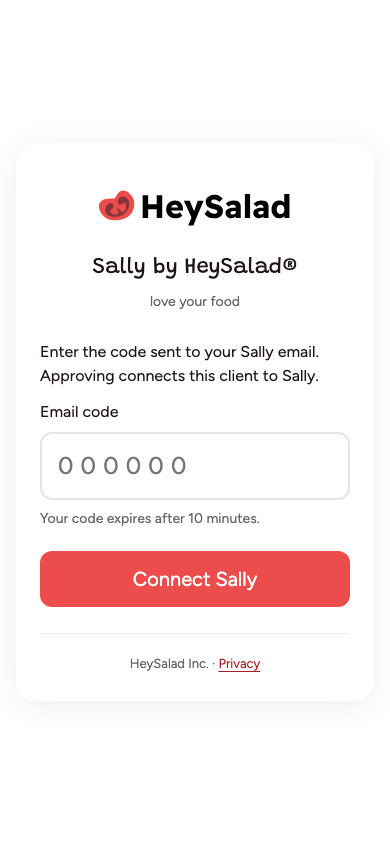
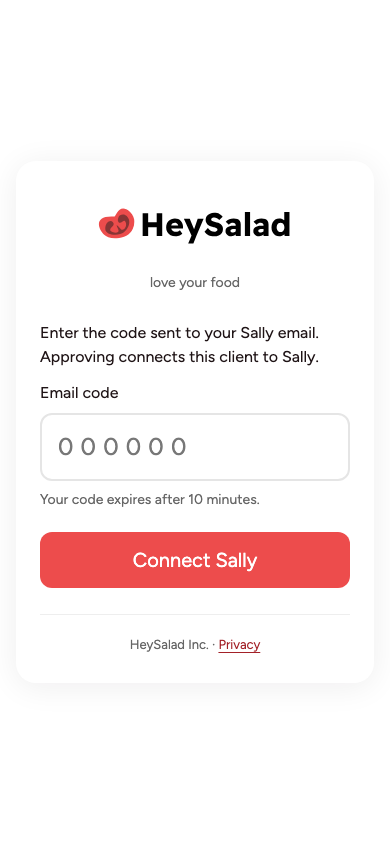
Remove duplicate Sally heading from sign-in card

Changed region(s): [[0.0923, 0.2156, 0.9231, 0.8009], [0.8923, 0.5545, 0.9231, 0.5853], [0.8923, 0.4929, 0.9231, 0.5237]]

diff --git a/src/auth.ts b/src/auth.ts
@@ -22,7 +22,7 @@ const html = (
     `default-src 'none'; style-src 'unsafe-inline'; font-src data:; form-action 'self'${redirectUri ? " " + new URL(redirectUri).origin : ""}; frame-ancestors 'none'; base-uri 'none'`,
   );
   return new Response(
-    `<!doctype html><html lang="en"><head><meta charset="utf-8"><meta name="viewport" content="width=device-width, initial-scale=1"><title>Connect ${DISPLAY_NAME}</title><style>${fontFaces}${authStyles}</style></head><body><main class="auth-card"><header class="auth-header"><div class="brand-mark" role="img" aria-label="HeySalad logo">${HEYSALAD_WORDMARK_SVG}</div><h1>${DISPLAY_NAME}</h1><p class="tagline">love your food</p></header><div class="auth-content">${body}</div><footer class="company-footer">HeySalad Inc. · <a href="https://heysalad.ai/sally/privacy">Privacy</a></footer></main></body></html>`,
+    `<!doctype html><html lang="en"><head><meta charset="utf-8"><meta name="viewport" content="width=device-width, initial-scale=1"><title>Connect ${DISPLAY_NAME}</title><style>${fontFaces}${authStyles}</style></head><body><main class="auth-card" aria-label="Connect Sally"><header class="auth-header"><div class="brand-mark" role="img" aria-label="HeySalad logo">${HEYSALAD_WORDMARK_SVG}</div><p class="tagline">love your food</p></header><div class="auth-content">${body}</div><footer class="company-footer">HeySalad Inc. · <a href="https://heysalad.ai/sally/privacy">Privacy</a></footer></main></body></html>`,
     { status, headers },
   );
 };

diff --git a/ui/auth.css b/ui/auth.css
@@ -40,12 +40,7 @@ body {
   width: 100%;
   height: auto;
 }
-h1 {
-  font:
-    600 22px/1.3 Grandstander,
-    cursive;
-  margin: 0 0 8px;
-}
+
 .tagline {
   color: #666;
   font-size: 14px;

diff --git a/submission/verification.md b/submission/verification.md
@@ -104,3 +104,7 @@ Canonical live matcher validation: synthetic milk 2-pint candidate accepted by d
 OAuth styling revision (15 October): Peter requested the existing heysalad-payme OAuth look shown in his screenshot. Source inspected: heysalad-oauth/src/ui.ts at heysalad-payme main 3134f2e. Adapted its white centered card, soft shadow, rounded inputs, red primary button, helper text and separated footer in ui/auth.css. Preserved Sally by HeySalad®, official inline full wordmark, HeySalad Inc. footer, all consent/client/return-host/scope disclosures, script-free CSP and the existing browser-bound email-code flow. No magic-link/social authentication was added. All 68 unit tests, five existing UI tests, typecheck/build, direct and proxied complete OAuth/browser lifecycle pass. Browser checks assert desktop/mobile fit and aligned full-width fields/actions; screenshots oauth-style-*-fixture.png show isolated synthetic client data, not a live account. Production canonical styling deployment requires approval after the staging preview.
 
 Styled staging deployed: 186f6f5a-5fc4-491e-91cd-907b4b7b203a. Hosted MCP smoke and Inspector four-tool discovery pass; real staging consent page opened and visually checked. No production canonical Worker change in this style revision.
+
+Consent header refinement: removed the visible Sally by HeySalad® heading Peter boxed in his screenshot. The official HeySalad wordmark and love your food tagline remain; browser title and accessible main landmark still identify Sally. Browser assertions now require the duplicate heading to be absent, the wordmark/tagline to be present and form Figtree to load (the removed headline no longer uses Grandstander). Desktop/mobile layout and complete proxied OAuth lifecycle pass; 68 unit tests, build/typecheck and five UI tests pass. Updated synthetic preview screenshots. Canonical production styling remains pending the previously requested approval.
+
+Header removal staged in Worker bf51a317-d233-48b6-a79b-733589675bb9; browser reload confirms only the wordmark and tagline in the header. No user email/code submitted.
